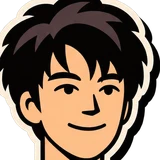
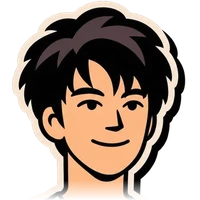
feat: add footer, form subject field, borderless journey face (#4)
- Footer with name, tagline, social links, language switcher and back-to-top
- Optional subject field and a localized message placeholder in the contact form
- Journey marker shows the face cutout without the circle frame

Claude-Session: https://claude.ai/code/session_01FxA3FR4AWEiQathNUpVWww

diff --git a/site/index.html b/site/index.html
@@ -72,7 +72,7 @@ html[lang=ja] body{line-break:strict;word-break:normal}html[lang=ja] .lede,html[
 .road .track{fill:none;stroke:var(--ink);stroke-width:4;stroke-dasharray:2 14;stroke-linecap:round;opacity:.35}
 .road .edge{fill:none;stroke:var(--ink);stroke-width:14;stroke-linecap:round}
 .road .fill{fill:none;stroke:var(--y);stroke-width:6;stroke-linecap:round}
-.jr .head{position:absolute;left:0;top:0;width:64px;height:64px;margin:-32px 0 0 -32px;border:4px solid var(--ink);border-radius:50%;background:#fff url(assets/me-head.webp) center/cover;box-shadow:4px 4px 0 var(--ink);z-index:3;pointer-events:none}
+.jr .head{position:absolute;left:0;top:0;width:84px;height:84px;margin:-42px 0 0 -42px;background:url(assets/me-head.webp) center/contain no-repeat;z-index:3;pointer-events:none}
 .jr .dot{position:absolute;width:30px;height:30px;margin:-15px 0 0 -15px;border:4px solid var(--ink);border-radius:50%;background:#fff;z-index:2;transform:scale(.4);transition:transform .4s cubic-bezier(.3,1.8,.5,1),background .2s}
 .jr .dot.in{transform:scale(1)}
 .stop{position:relative;width:calc(50% - 90px);background:#fff;border:4px solid var(--ink);border-radius:22px;box-shadow:7px 7px 0 var(--ink);padding:22px 22px 20px;margin-bottom:-40px;z-index:1;opacity:0;transform:translateY(46px) rotate(var(--r0)) scale(.92);transition:opacity .35s,transform .6s cubic-bezier(.25,1.6,.45,1)}
@@ -90,7 +90,7 @@ html[lang=ja] body{line-break:strict;word-break:normal}html[lang=ja] .lede,html[
 .stop ul{margin-top:12px;padding-left:20px;line-height:1.5}
 .stop li+li{margin-top:6px}
 .stop li::marker{content:"✦  "}
-@media(max-width:900px){.jr .head{width:48px;height:48px;margin:-24px 0 0 -24px;box-shadow:3px 3px 0 var(--ink)}.stop,.stop.l,.stop.r{width:auto;margin:0 0 34px 78px;--r0:4deg;--r:0deg}}
+@media(max-width:900px){.jr .head{width:64px;height:64px;margin:-32px 0 0 -32px}.stop,.stop.l,.stop.r{width:auto;margin:0 0 34px 78px;--r0:4deg;--r:0deg}}
 @media(prefers-reduced-motion:reduce){.stop,.jr .dot{transition:none}}
 section{max-width:1100px;margin:0 auto;padding:140px 18px 0}
 section:last-of-type{padding-bottom:140px}
@@ -113,6 +113,19 @@ h3.sec span{background:var(--y);border:4px solid var(--ink);padding:0 12px;displ
 .stk p{font-size:15px;line-height:1.4}
 .stk small{display:inline-block;margin-top:10px;font-weight:800;font-size:12px;background:var(--ink);color:#fff;padding:3px 9px;border-radius:999px}
 .hire{text-align:center;padding:110px 18px}
+.foot{background:var(--ink);color:var(--bg);padding:56px 18px 28px;border-top:4px solid var(--ink)}
+.foot .in{max-width:1100px;margin:0 auto}
+.foot .r1{display:flex;justify-content:space-between;align-items:flex-start;gap:28px;flex-wrap:wrap}
+.foot .mark{display:flex;align-items:center;gap:12px;font-family:"Archivo Black",var(--xf),sans-serif;font-weight:900;font-synthesis:none;font-size:24px;letter-spacing:-.02em}
+.foot .mark img{width:44px;height:44px;background:var(--y);border:3px solid var(--bg);border-radius:12px;padding:5px}
+.foot .tag{margin-top:14px;max-width:440px;font-weight:600;line-height:1.55;opacity:.8}
+.foot .ics{display:flex;gap:10px;margin-top:20px}
+.foot .ics a{display:grid;place-items:center;width:42px;height:42px;border:3px solid var(--bg);border-radius:12px;color:var(--bg);transition:background .15s,color .15s}
+.foot .ics a:hover{background:var(--y);color:var(--ink);border-color:var(--y)}
+.foot .ics svg{width:20px;height:20px}
+.foot .bot{display:flex;justify-content:space-between;gap:16px;flex-wrap:wrap;margin-top:40px;padding-top:22px;border-top:2px solid rgba(255,247,232,.25);font-size:14px;font-weight:600;opacity:.8}
+.foot .bot a{color:inherit}
+.foot .bot a:hover{color:var(--y)}
 .hire h3{font-family:"Archivo Black",var(--xf),sans-serif;font-weight:900;font-synthesis:none;font-size:clamp(33px,6.75vw,90px);line-height:.88;letter-spacing:-.04em}
 .hire .big{display:inline-flex;gap:14px;flex-wrap:wrap;justify-content:center;margin-top:16px}
 .cform{max-width:680px;margin:44px auto 0;text-align:left;display:grid;gap:18px}
@@ -247,7 +260,8 @@ h3.sec span{background:var(--y);border:4px solid var(--ink);padding:0 12px;displ
       <label><span data-i="f_name">Name</span><input name="name" autocomplete="name" maxlength="100" required></label>
       <label><span data-i="f_email">Email</span><input name="email" type="email" autocomplete="email" maxlength="200" required></label>
     </div>
-    <label><span data-i="f_msg">Message</span><textarea name="message" rows="5" maxlength="3000" required></textarea></label>
+    <label><span data-i="f_subj">Subject</span><input name="subject" maxlength="150"></label>
+    <label><span data-i="f_msg">Message</span><textarea name="message" rows="5" maxlength="3000" required data-ph="f_msg_ph" placeholder="Tell me about your idea"></textarea></label>
     <label class="hp" aria-hidden="true">Company<input name="company" tabindex="-1" autocomplete="off"></label>
     <div class="send"><button class="pill" type="submit" data-i="f_send">Send message</button><p class="status" id="cstatus" role="status" aria-live="polite"></p></div>
   </form>
@@ -259,11 +273,25 @@ h3.sec span{background:var(--y);border:4px solid var(--ink);padding:0 12px;displ
   </div>
 </div>
 
+<footer class="foot">
+  <div class="in">
+    <div class="r1">
+      <div>
+        <div class="mark"><img src="assets/logo.svg" alt=""><span data-i="ft_name">Kittichote Kamalapirat</span></div>
+        <p class="tag" data-i="ft_tag">Frontend engineer · Bangkok, Thailand · I build products people actually use.</p>
+        <div class="ics"><a href="https://www.linkedin.com/in/kittichote-kamalapirat-076aaa120/" target="_blank" rel="noopener" aria-label="LinkedIn" title="LinkedIn"><svg class="ic" viewBox="0 0 24 24" aria-hidden="true"><path fill="currentColor" d="M20.45 20.45h-3.56v-5.57c0-1.33-.02-3.04-1.85-3.04-1.85 0-2.14 1.45-2.14 2.94v5.67H9.35V9h3.41v1.56h.05c.48-.9 1.64-1.85 3.37-1.85 3.6 0 4.27 2.37 4.27 5.46v6.28zM5.34 7.43a2.06 2.06 0 1 1 0-4.13 2.06 2.06 0 0 1 0 4.13zM7.12 20.45H3.56V9h3.56v11.45zM22.22 0H1.77C.79 0 0 .77 0 1.73v20.54C0 23.23.79 24 1.77 24h20.45c.98 0 1.78-.77 1.78-1.73V1.73C24 .77 23.2 0 22.22 0z"/></svg></a><a href="https://github.com/kittichotekamalapirat" target="_blank" rel="noopener" aria-label="GitHub" title="GitHub"><svg class="ic" viewBox="0 0 24 24" aria-hidden="true"><path fill="currentColor" d="M12 .3a12 12 0 0 0-3.8 23.4c.6.1.8-.3.8-.6v-2c-3.3.7-4-1.6-4-1.6-.6-1.4-1.4-1.8-1.4-1.8-1-.7.1-.7.1-.7 1.2.1 1.8 1.2 1.8 1.2 1 1.8 2.8 1.3 3.5 1 0-.8.4-1.3.7-1.6-2.7-.3-5.5-1.3-5.5-6 0-1.2.5-2.3 1.3-3.1-.2-.4-.6-1.6 0-3.2 0 0 1-.3 3.4 1.2a11.5 11.5 0 0 1 6 0c2.3-1.5 3.3-1.2 3.3-1.2.6 1.6.2 2.8 0 3.2.9.8 1.3 1.9 1.3 3.2 0 4.6-2.8 5.6-5.5 5.9.5.4.9 1.2.9 2.3v3.3c0 .3.1.7.8.6A12 12 0 0 0 12 .3"/></svg></a><a href="https://github.com/KittichoteKamalapirat/resume/blob/726a944875fe1ef9b4bbd5cdcef32c29688796ea/Dec%202023.pdf" target="_blank" rel="noopener" aria-label="Résumé" title="Résumé"><svg class="ic" viewBox="0 0 24 24" aria-hidden="true"><path d="M14 2.5H6.5a2 2 0 0 0-2 2v15a2 2 0 0 0 2 2h11a2 2 0 0 0 2-2V8z" fill="#fff" stroke="currentColor" stroke-width="2" stroke-linejoin="round"/><path d="M14 2.5V8h5.5" fill="none" stroke="currentColor" stroke-width="2" stroke-linejoin="round"/><path d="M8 13h8M8 17h5" stroke="currentColor" stroke-width="2" stroke-linecap="round"/></svg></a></div>
+      </div>
+      <div class="lang" role="group" aria-label="Language"><button type="button" data-l="en"></button><button type="button" data-l="th"></button><button type="button" data-l="ja"></button></div>
+    </div>
+    <div class="bot"><span data-i="ft_copy">© 2026 Kittichote Kamalapirat. All rights reserved.</span><a href="#" data-i="ft_top">Back to top ↑</a></div>
+  </div>
+</footer>
+
 <script>
 // ---------- languages: English is written in the page; Thai and Japanese live here. {x} marks the highlighted word in a title.
 const TX={
 th:{
- f_name:"ชื่อ",f_email:"อีเมล",f_msg:"ข้อความ",f_send:"ส่งข้อความ",f_or:"หรือติดต่อทางช่องทางอื่น",back:"← คอนเซปต์",h1:"สวัสดีครับ ผม{เชน}",tagline:"พัฒนาโปรดักต์ที่ใช้งานได้จริง",lede:"กิตติโชติ กมลาภิรัตน์ Frontend Engineer ในกรุงเทพฯ มีประสบการณ์มากกว่า 6 ปีกับ React, Next.js และ TypeScript เคยพัฒนาเว็บแอปที่ EarnIn ซึ่งมีผู้ใช้งานกว่า 1 ล้านคน และพัฒนาแอปของตัวเองแบบ Full Stack ตั้งแต่ระบบหลังบ้านจนถึง App Store รับงานทั้งฟรีแลนซ์และงานประจำ",
+ f_name:"ชื่อ",ft_name:"กิตติโชติ กมลาภิรัตน์",ft_tag:"Frontend Engineer · กรุงเทพฯ ประเทศไทย",ft_copy:"© 2026 กิตติโชติ กมลาภิรัตน์ สงวนลิขสิทธิ์",ft_top:"กลับขึ้นด้านบน ↑",f_subj:"หัวข้อ",f_msg_ph:"รายละเอียดงานหรือโปรเจกต์ที่ต้องการติดต่อ",f_email:"อีเมล",f_msg:"ข้อความ",f_send:"ส่งข้อความ",f_or:"หรือติดต่อทางช่องทางอื่น",back:"← คอนเซปต์",h1:"สวัสดีครับ ผม{เชน}",tagline:"พัฒนาโปรดักต์ที่ใช้งานได้จริง",lede:"กิตติโชติ กมลาภิรัตน์ Frontend Engineer ในกรุงเทพฯ มีประสบการณ์มากกว่า 6 ปีกับ React, Next.js และ TypeScript เคยพัฒนาเว็บแอปที่ EarnIn ซึ่งมีผู้ใช้งานกว่า 1 ล้านคน และพัฒนาแอปของตัวเองแบบ Full Stack ตั้งแต่ระบบหลังบ้านจนถึง App Store รับงานทั้งฟรีแลนซ์และงานประจำ",
  cta1:"ดูผลงาน ↓",cta2:"จ้าง",hi:"สวัสดี",wfh:"โหมด WFH",s_skills:"{เทคโนโลยี}",s_made:"{ผลงาน}",acorn:"ผลงานภายใต้ Acorn Studio ↗",oss:"โอเพนซอร์ส",
  s_journey:"{ประสบการณ์}",s_wrote:"{บทความ}",tag_case:"กรณีศึกษา",tag_essay:"ความเรียง",tag_tut:"บทสอน",
  p1m:"พ.ย. 2026 · อ่าน 3 นาที",
@@ -285,7 +313,7 @@ th:{
   "NOW":{y:"ปัจจุบัน",t:"Indie Developer",co:"ทำงานอิสระ",b:["สร้างและปล่อยแอป iOS ของตัวเองภายใต้ Acorn Studio: Piiman, Post0, LeetCards และอื่น ๆ"]}}
 },
 ja:{
- f_name:"お名前",f_email:"メールアドレス",f_msg:"メッセージ",f_send:"送信する",f_or:"その他の連絡先",back:"← コンセプト",h1:"こんにちは、{キッティ}です。",tagline:"実際に使われるプロダクトを開発しています。",lede:"キッティチョート・カマラピラット。バンコク在住のフロントエンドエンジニアです。React・Next.js・TypeScript を中心に 6 年以上の開発経験があります。EarnIn では 100 万人以上が利用する Web アプリを開発しました。個人開発では、データベースから App Store での公開までフルスタックで担当しています。フリーランス・正社員のご相談を受け付けています。",
+ f_name:"お名前",ft_name:"キッティチョート・カマラピラット",ft_tag:"フロントエンドエンジニア・タイ バンコク在住",ft_copy:"© 2026 Kittichote Kamalapirat. All rights reserved.",ft_top:"ページトップへ ↑",f_subj:"件名",f_msg_ph:"ご相談内容をご記入ください",f_email:"メールアドレス",f_msg:"メッセージ",f_send:"送信する",f_or:"その他の連絡先",back:"← コンセプト",h1:"こんにちは、{キッティ}です。",tagline:"実際に使われるプロダクトを開発しています。",lede:"キッティチョート・カマラピラット。バンコク在住のフロントエンドエンジニアです。React・Next.js・TypeScript を中心に 6 年以上の開発経験があります。EarnIn では 100 万人以上が利用する Web アプリを開発しました。個人開発では、データベースから App Store での公開までフルスタックで担当しています。フリーランス・正社員のご相談を受け付けています。",
  cta1:"制作実績を見る ↓",cta2:"お問い合わせ",hi:"こんにちは",wfh:"WFH モード",s_skills:"{スキル}",s_made:"{制作実績}",acorn:"Acorn Studio のアプリ ↗",oss:"オープンソース",
  s_journey:"{経歴}",s_wrote:"{ブログ}",tag_case:"ケーススタディ",tag_essay:"エッセイ",tag_tut:"チュートリアル",
  p1m:"2026年11月 · 3分",
@@ -317,10 +345,11 @@ function setLang(l,first){
   LANG=l;document.documentElement.lang=l;
   document.querySelectorAll("[data-i]").forEach(el=>{if(el._en===undefined)el._en=el.innerHTML;const v=TX[l]&&TX[l][el.dataset.i];
     if(v===undefined){el.innerHTML=el._en;return}const open=(el._en.match(/<span[^>]*>/)||["<span>"])[0];el.innerHTML=v.replace(/\{(.+?)\}/,open+"$1</span>")});
-  document.querySelectorAll(".lang button").forEach(b=>{b.setAttribute("aria-pressed",b.dataset.l===l);b.innerHTML=FLAG[b.dataset.l]+"<span>"+LBL[l][b.dataset.l]+"</span>";b.title=FULL[b.dataset.l];b.setAttribute("aria-label",FULL[b.dataset.l]);b.lang=l});document.querySelector(".lang").setAttribute("aria-label",LNAME[l]);
+  document.querySelectorAll("[data-ph]").forEach(el=>{if(el._ph===undefined)el._ph=el.placeholder;el.placeholder=(TX[l]&&TX[l][el.dataset.ph])||el._ph});
+  document.querySelectorAll(".lang button").forEach(b=>{b.setAttribute("aria-pressed",b.dataset.l===l);b.innerHTML=FLAG[b.dataset.l]+"<span>"+LBL[l][b.dataset.l]+"</span>";b.title=FULL[b.dataset.l];b.setAttribute("aria-label",FULL[b.dataset.l]);b.lang=l});document.querySelectorAll(".lang").forEach(g=>g.setAttribute("aria-label",LNAME[l]));
   if(!first){try{localStorage.setItem("lang",l)}catch(e){}const u=new URL(location);if(l==="en")u.searchParams.delete("lang");else u.searchParams.set("lang",l);history.replaceState(null,"",u)}
   onLang.forEach(f=>f())}
-document.querySelector(".lang").addEventListener("click",e=>{const b=e.target.closest("button");if(b&&b.dataset.l!==LANG)setLang(b.dataset.l)});
+document.querySelectorAll(".lang").forEach(g=>g.addEventListener("click",e=>{const b=e.target.closest("button");if(b&&b.dataset.l!==LANG)setLang(b.dataset.l)}));
 
 const A="https://www.theacorn.studio/";
 const P=[
